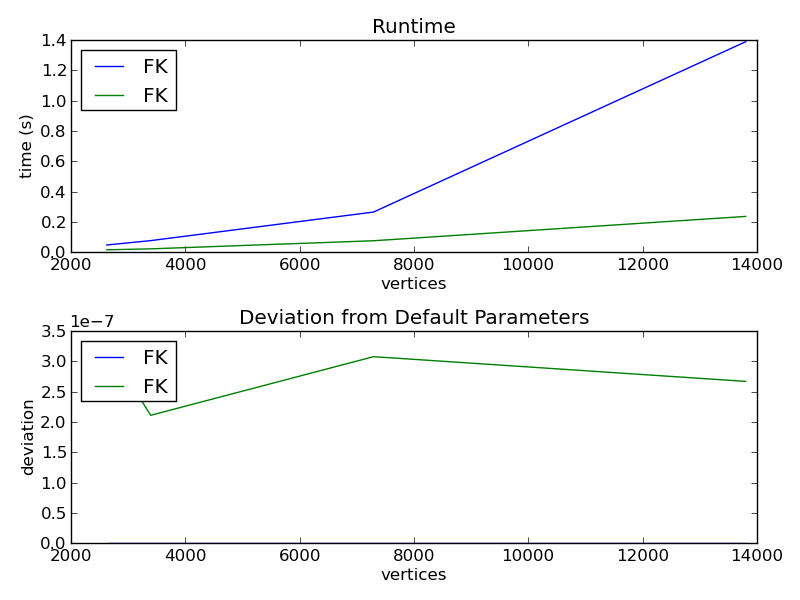
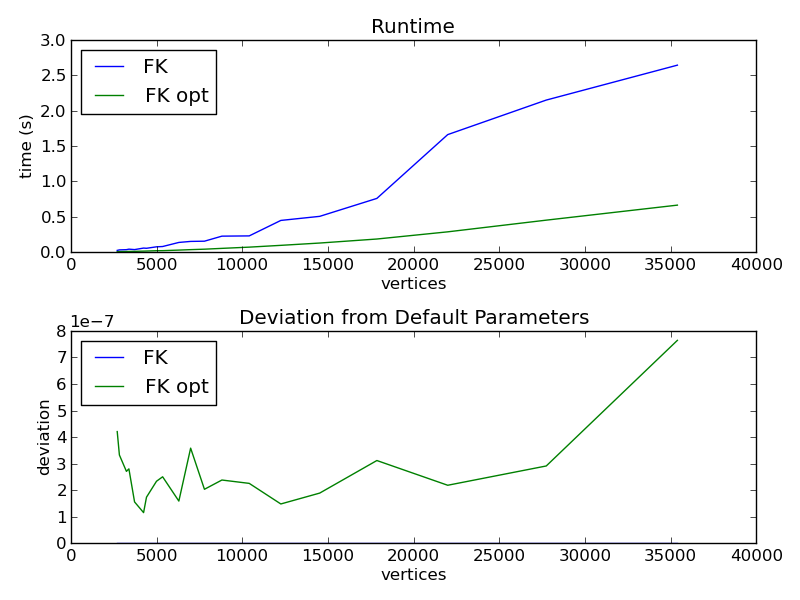
for film, optimised FK settings against default FK settings against system size

diff --git a/src/finmag/energies/demag/benchmark_fk.py b/src/finmag/energies/demag/benchmark_fk.py
@@ -1,72 +1,88 @@
 import time
+import pickle
 import numpy as np
 import dolfin as df
+import matplotlib as mpl
+mpl.use("Agg")
+import matplotlib.pyplot as plt
 from finmag.energies import Demag
 from finmag.util.meshes import box
-import matplotlib.pyplot as plt
+from finmag.native.llg import compute_bem_fk
 
-maxhs = [1.5, 2.0, 3.0, 3.5]
-unit_length = 1e-9
-m_0 = (1, 0, 0)
+now = time.time
+create_mesh = lambda maxh: box(0, 0, 0, 500, 25, 1, maxh, directory="meshes")
+maxhs = np.arange(1.0, 3.7, 0.2)
 Ms = 1
+m_0 = (1, 0, 0)
+unit_length = 1e-9
+default_params = ("default", "default", "default", "default")
+opt_params = ("cg", "ilu", "cg", "ilu")
+repetitions = 10
+results_file = "results_fk_benchmark.txt"
 
-vertices = []
-solvers = ["FK", "FK"]
-solvers_label = ["FK", "FK opt"]
-timings = [[], []]
-errors = [[], []]
 
-for maxh in maxhs:
-    mesh = box(0, 0, 0, 500, 25, 1, maxh=maxh, directory="meshes")
-    vertices.append(mesh.num_vertices())
-    S3 = df.VectorFunctionSpace(mesh, "Lagrange", 1)
-    m = df.Function(S3)
-    m.assign(df.Constant(m_0))
+def run_demag(repetitions, params, S3, m, Ms, unit_length, bem=None, b2g_map=None):
+    demag = Demag("FK")
+    demag.parameters["phi_1_solver"] = params[0]
+    demag.parameters["phi_1_preconditioner"] = params[1]
+    demag.parameters["phi_2_solver"] = params[2]
+    demag.parameters["phi_2_preconditioner"] = params[3]
+    if bem is not None:
+        demag.precomputed_bem(bem, b2g_map)
+    demag.setup(S3, m, Ms, unit_length)
+    start = now()
+    for j in xrange(repetitions):
+        H = demag.compute_field()
+    runtime = (now() - start) / repetitions
+    return H, runtime
 
-    H_ref = None
+try:
+    results = np.loadtxt(results_file)
+except IOError:
+    results = np.zeros((len(maxhs), 4))
+    for i, maxh in enumerate(maxhs):
+        print "Mesh {}/{} with maxh = {:.3}.".format(i + 1, len(maxhs), maxh)
+        mesh = create_mesh(maxh)
+        S3 = df.VectorFunctionSpace(mesh, "Lagrange", 1)
+        m = df.Function(S3)
+        m.assign(df.Constant(m_0))
 
-    for i, solver in enumerate(solvers):
-        demag = Demag(solver)
-        if i == 0:
-            demag.parameters["phi_1_solver"] = "default"
-            demag.parameters["phi_1_preconditioner"] = "default"
-            demag.parameters["phi_2_solver"] = "default"
-            demag.parameters["phi_2_preconditioner"] = "default"
-        if i == 1:
-            demag.parameters["phi_1_solver"] = "cg"
-            demag.parameters["phi_1_preconditioner"] = "ilu"
-            demag.parameters["phi_2_solver"] = "cg"
-            demag.parameters["phi_2_preconditioner"] = "ilu"
+        # Pre-compute BEM to save time.
+        bem, b2g_map = compute_bem_fk(df.BoundaryMesh(mesh, 'exterior', False))
 
-        demag.setup(S3, m, Ms, unit_length)
+        print "Computing demagnetising field with default solver parameters..."
+        H_default, runtime_default = run_demag(
+            repetitions, default_params, S3, m, Ms, unit_length, bem, b2g_map)
 
-        start = time.time()
-        for j in xrange(10):
-            H = demag.compute_field()
-        elapsed = (time.time() - start) / 10.0
+        print "Computing demagnetising field with optimised solver parameters..."
+        H_opt, runtime_opt = run_demag(
+            repetitions, opt_params, S3, m, Ms, unit_length, bem, b2g_map)
 
-        if H_ref is None:
-            H_ref = H
-        error = np.max(np.abs(H - H_ref))
-        timings[i].append(elapsed)
-        errors[i].append(error)
+        results[i, 0] = mesh.num_vertices()
+        results[i, 1] = runtime_default
+        results[i, 2] = runtime_opt
+        results[i, 3] = np.max(np.abs(H_default - H_opt))
+        np.savetxt(results_file, results)  # Save results after every step.
+
+vertices = results[:,0]
+runtimes_default = results[:,1]
+runtimes_opt = results[:,2]
+deviation = results[:,3]
 
 fig = plt.figure()
 ax = fig.add_subplot(211)
-ax.set_title("Runtime")
-for i, solver in enumerate(solvers):
-    ax.plot(vertices, timings[i], label=solvers[i])
+ax.set_title("Runtime Comparison")
+ax.plot(vertices, runtimes_default, label="default FK settings")
+ax.plot(vertices, runtimes_opt, label="optimised FK settings")
 ax.legend(loc=2)
 ax.set_xlabel("vertices")
 ax.set_ylabel("time (s)")
 
 ax = fig.add_subplot(212)
-ax.set_title("Deviation from Default Parameters")
-for i, solver in enumerate(solvers):
-    ax.plot(vertices, errors[i], label=solvers[i])
-ax.legend(loc=2)
+ax.set_title("Deviation from Solution Obtained with Default Settings")
+ax.plot(vertices, deviation)
 ax.set_xlabel("vertices")
-ax.set_ylabel("deviation")
+ax.set_ylabel("max. deviation")
 
 fig.tight_layout()
-fig.savefig("benchmark_fk.png")
+fig.savefig("results_fk_benchmark.png")
